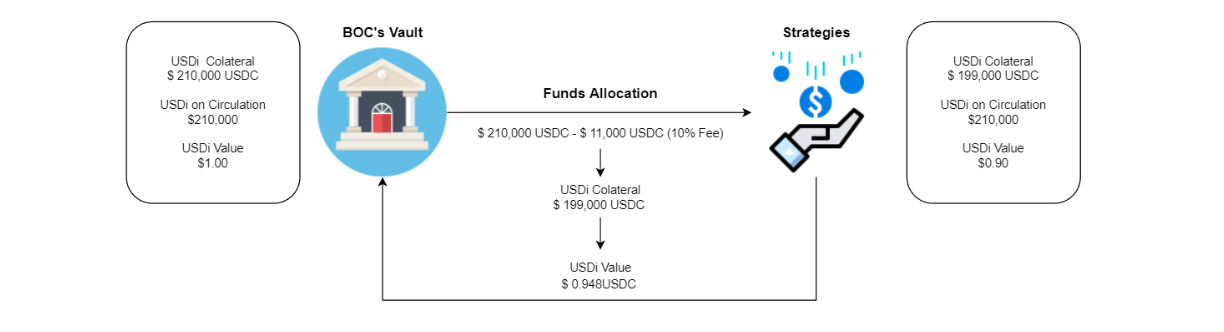
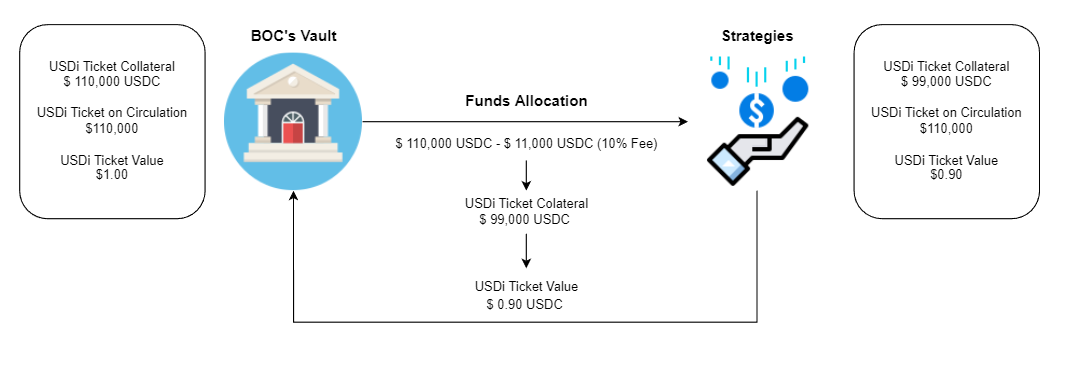
GitBook: [#27] No subject

diff --git a/README.md b/README.md
@@ -5,19 +5,19 @@ coverY: 0
 
 # Introduction to BOC
 
-## What is BOC
+## What is BoC
 
-BOC (Bank Of Chain) is a new and innovative platform in the decentralized finance ([DeFi](more/appendix.md#decentralized-finance-defi)) ecosystem. It helps ordinary users to obtain a near "risk-free" wealth management tool on the [blockchain](more/appendix.md#blockchain-network).
+BoC (Bank Of Chain) is a new and innovative platform in the decentralized finance ([DeFi](more/appendix.md#decentralized-finance-defi)) ecosystem. It helps ordinary users to obtain a near "risk-free" wealth management tool on the [blockchain](more/appendix.md#blockchain-network).
 
-The BOC platform connects carefully selected protocols within the crypto ecosystem, including [Automatic Market Makers (AMMs)](more/appendix.md#automated-market-maker-amm), [lending protocols](more/appendix.md#lending-protocol), [yield aggregators](more/appendix.md#yield-aggregators), among others. (see [Dashboard](https://dashboard.bankofchain.io/#/) for details).
+The BoC platform connects carefully selected protocols within the crypto ecosystem, including [Automatic Market Makers (AMMs)](more/appendix.md#automated-market-maker-amm), [lending protocols](more/appendix.md#lending-protocol), [yield aggregators](more/appendix.md#yield-aggregators), among others. (see [Dashboard](https://dashboard.bankofchain.io/#/) for details).
 
-By accessing high-quality [protocols](more/appendix.md#protocol) and smart [strategies](more/appendix.md#strategy), BOC provides a 4-5% more APY than other similar USD managed funds.
+By accessing high-quality [protocols](more/appendix.md#protocol) and smart [strategies](more/appendix.md#strategy), BoC provides a 4-5% more APY than other similar USD managed funds.
 
-This is the best way to start in the DeFi ecosystem for newcomers to the crypto industry. As a one-click protocol, BOC will bring a new revolution to the DeFi industry, attracting hundreds of millions of dollars of investment.
+This is the best way to start in the DeFi ecosystem for newcomers to the crypto industry. As a one-click protocol, BoC will bring a new revolution to the DeFi industry, attracting hundreds of millions of dollars of investment.
 
-## BOC Source of Yield
+## BoC Source of Yield
 
-BOC is a DeFi protocol that provides the best long-term near "risk-free" return. Depending on the strategy the sources of yield come from:
+BoC is a DeFi protocol that provides the best long-term near "risk-free" return. Depending on the strategy the sources of yield come from:
 
 * The transaction fee charged for providing market-making funds to decentralized exchanges [(DEX)](more/appendix.md#decentralized-exchanges-dexs).
 * The interest charged on funds borrowed for [over-collateralized loans](more/appendix.md#Over-collateralized-loans).
@@ -39,16 +39,16 @@ The existing DeFi protocols present the following problems:
 * Present a complex user interface and requires high-expertise in DeFi investments.
 * Requirement of multiple cryptocurrencies.
 
-## What makes BOC different?
+## What makes BoC different?
 
-BOC is the first Decentralized Bank (DeB), where you can deposit your crypto assets and automatically BOC´s smart contracts will perform decentralized investing by carefully running selected strategies on different high-quality DeFi protocols to create long-term stable income near "risk-free".
+BoC is the first Decentralized Bank (DeB), where you can deposit your crypto assets and automatically BoC´s smart contracts will perform decentralized investing by carefully running selected strategies on different high-quality DeFi protocols to create long-term stable income near "risk-free".
 
-The main characteristics that make BOC a unique product are:
+The main characteristics that make BoC a unique product are:
 
 **Bank-like Structure:**
 
 1. Bank-like user interface.
-   * Users can deposit and withdraw directly without considering the difficulties of implementing complex operations such as farming, exchange, and reallocation. BOC makes the best selection for them.
+   * Users can deposit and withdraw directly without considering the difficulties of implementing complex operations such as farming, exchange, and reallocation. BoC makes the best selection for them.
    * Historical and dynamic returns are intuitively visible.
 2. Bank-like service.
    * Wealth management tool on the blockchain.
@@ -90,12 +90,12 @@ The main characteristics that make BOC a unique product are:
 3. It performs FX interest swap, adjusting FX synthesis based on the exchange rate and yield.
 4. Parameters are automatically set for market-making and lending strategy.
 
-In summary, BOC Platform is the missing catalyst that will revolutionize the industry, generating a new route to interact with the DeFi Ecosystem, making it a safe path for newcomers. This will lead to new market growth compared to other similar products in the market:
+In summary, BoC Platform is the missing catalyst that will revolutionize the industry, generating a new route to interact with the DeFi Ecosystem, making it a safe path for newcomers. This will lead to new market growth compared to other similar products in the market:
 
-| Comparing Product                            | [BOC](https://bankofchain.io/)                                            | [Yearn](http://yearn.finance/)                                                                                                                        | [OUSD](https://www.ousd.com/)                                                                 | [Aladdin DAO](https://aladdin.club/)                                                                                                               | [Enzyme](https://enzyme.finance/)                                                                                                                          | [Farming](https://harvest.finance/)                                                                                                | [Beefy](https://beefy.finance/)                                                                                                                                                                              | [Alpha](https://alphafinance.io/)                                                                                                                    | [Yield app](https://www.yield.app/)                                                 |
+| Comparing Product                            | [BoC](https://bankofchain.io/)                                            | [Yearn](http://yearn.finance/)                                                                                                                        | [OUSD](https://www.ousd.com/)                                                                 | [Aladdin DAO](https://aladdin.club/)                                                                                                               | [Enzyme](https://enzyme.finance/)                                                                                                                          | [Farming](https://harvest.finance/)                                                                                                | [Beefy](https://beefy.finance/)                                                                                                                                                                              | [Alpha](https://alphafinance.io/)                                                                                                                    | [Yield app](https://www.yield.app/)                                                 |
 | -------------------------------------------- | ------------------------------------------------------------------------- | ----------------------------------------------------------------------------------------------------------------------------------------------------- | --------------------------------------------------------------------------------------------- | -------------------------------------------------------------------------------------------------------------------------------------------------- | ---------------------------------------------------------------------------------------------------------------------------------------------------------- | ---------------------------------------------------------------------------------------------------------------------------------- | ------------------------------------------------------------------------------------------------------------------------------------------------------------------------------------------------------------ | ---------------------------------------------------------------------------------------------------------------------------------------------------- | ----------------------------------------------------------------------------------- |
 | Type                                         | DeFi Bank                                                                 | Yield Aggregator                                                                                                                                      | Stablecoin                                                                                    | Yield Aggregator                                                                                                                                   | On-chain asset management                                                                                                                                  | Yield Aggregator                                                                                                                   | Yield Aggregator                                                                                                                                                                                             | Yield Aggregator                                                                                                                                     | DeFi Bank                                                                           |
-| Details                                      | BOC is a DeFi protocol that provides the best long-term risk-free return. | Yearn Finance is a suite of products in Decentralized Finance (DeFi) that provides yield generation, lending aggregation, and more on the blockchain. | Origin Dollar (OUSD) is a new stablecoin that was initially launched on the Ethereum network. | AladdinDAO is a decentralized network to shift crypto investments from venture capitalists to wisdom of crowds through collective value discovery. | Fast & cost-effective way to build, scale and monetize investment strategies.Fast & cost-effective way to build, scale and monetize investment strategies. | Harvest Finance is a yield farming protocol that allows users to put their assets to work in high-producing farming opportunities. | Beefy Finance is a Decentralized, Multi-Chain Yield Optimizer that allows its users to earn compound interest on their crypto holdings. Beefy earns you the highest APYs with safety and efficiency in mind. | Alpha Finance Lab is an ecosystem of cross-chain DeFi products that focuses on capturing unaddressed demands in an innovative and user-friendly way. | Your Digital Wealth Partner Discover the easiest way to earn on your digital assets |
+| Details                                      | BoC is a DeFi protocol that provides the best long-term risk-free return. | Yearn Finance is a suite of products in Decentralized Finance (DeFi) that provides yield generation, lending aggregation, and more on the blockchain. | Origin Dollar (OUSD) is a new stablecoin that was initially launched on the Ethereum network. | AladdinDAO is a decentralized network to shift crypto investments from venture capitalists to wisdom of crowds through collective value discovery. | Fast & cost-effective way to build, scale and monetize investment strategies.Fast & cost-effective way to build, scale and monetize investment strategies. | Harvest Finance is a yield farming protocol that allows users to put their assets to work in high-producing farming opportunities. | Beefy Finance is a Decentralized, Multi-Chain Yield Optimizer that allows its users to earn compound interest on their crypto holdings. Beefy earns you the highest APYs with safety and efficiency in mind. | Alpha Finance Lab is an ecosystem of cross-chain DeFi products that focuses on capturing unaddressed demands in an innovative and user-friendly way. | Your Digital Wealth Partner Discover the easiest way to earn on your digital assets |
 | Supported Chain                              | <p>ETH<br>BNB Chain<br>Polygon</p>                                        | <p>ETH<br>Fantom</p>                                                                                                                                  | ETH                                                                                           | ETH                                                                                                                                                | ETH                                                                                                                                                        | <p>ETH<br>BNB Chain<br>Polygon</p>                                                                                                 | <p>BNB Chain<br>Polygon<br>Arbitrum<br>Fantom<br>Avalanche<br>Harmony</p>                                                                                                                                    | <p>ETH<br>BNB Chain<br>Avalanche</p>                                                                                                                 | <p>ETH<br>V2 BNB Chain</p>                                                          |
 | <p>Locked Asset（USD）<br>2022/3/8</p>         | 31k                                                                       | 3.05B                                                                                                                                                 | 155.82m                                                                                       | 2.78m                                                                                                                                              | 167.98m                                                                                                                                                    | 222.25m                                                                                                                            | 921.5m                                                                                                                                                                                                       | 827.8m                                                                                                                                               | 512.71m                                                                             |
 | Official Token                               | n/a                                                                       | YFI                                                                                                                                                   | OGN                                                                                           | ALD                                                                                                                                                | MLN                                                                                                                                                        | FARM                                                                                                                               | BIFI                                                                                                                                                                                                         | ALPHA                                                                                                                                                | YLD                                                                                 |

diff --git a/protocol-mechanisms/protocol-algorithm-design/protocol-algorithm-design.md b/protocol-mechanisms/protocol-algorithm-design/protocol-algorithm-design.md
@@ -13,21 +13,23 @@ To simplify the situation for easier understanding:
 
 We have James, he is holding at the moment  `T=0` $ 100,000 USDi being USDi a fully pegged to USD (1 USDi = 1 USD), so his total assets on USD is $100,00 USD.
 
-<figure><img src="../../.gitbook/assets/image (10).png" alt=""><figcaption><p>Starting point T=0 (Alpha version).</p></figcaption></figure>
+<figure><img src="../../.gitbook/assets/image (4).png" alt=""><figcaption><p>Table 1: T=0 (Alpha version)</p></figcaption></figure>
+
+<figure><img src="../../.gitbook/assets/image (8).png" alt=""><figcaption><p>Diagram 1: Starting point T=0 (Alpha version).</p></figcaption></figure>
 
 Yesterday, Alice deposited 100,000 USDC as well, while Bob deposited 10,000 USDC. So, the vault will mint 110,000 USDi and they will be receiving 100,000 USDi and 10,000 USDi respectively.&#x20;
 
-<figure><img src="../../.gitbook/assets/image (7).png" alt=""><figcaption><p>Alice and Bob deposit new funds on BoC protocol (Alpha version).</p></figcaption></figure>
+<figure><img src="../../.gitbook/assets/image (19).png" alt=""><figcaption><p>Table 2: T=1 (Alpha version)</p></figcaption></figure>
+
+Alice and Bob deposit new funds on BoC protocol (Alpha version).
 
 The keeper will call the funds allocation when the [conditions](protocol-algorithm-design.md#allocation) are met and the vault will allocate the fund on the strategies selected by the keeper. For this feed will be needed to pay on the 3rt party protocols to complete the allocation, this fee will be taken from the USDi collateral, causing a de-pegging.
 
-<figure><img src="../../.gitbook/assets/image (15).png" alt=""><figcaption><p>Allocation of the funds T=1 (Alpha version). </p></figcaption></figure>
-
-<figure><img src="../../.gitbook/assets/image (12).png" alt=""><figcaption></figcaption></figure>
+<figure><img src="../../.gitbook/assets/image (18).png" alt=""><figcaption><p>Diagram 2: Allocation of the funds T=1 (Alpha version).<br></p></figcaption></figure>
 
 As we can see in the table, the fund allocation decreases the USDi collateral causing a de-pegging of it vs USD where James' assets have been affected by Alices' and Bob's deposit.
 
-<figure><img src="../../.gitbook/assets/image (14).png" alt=""><figcaption><p>User's assets after allocation (Alpha version). </p></figcaption></figure>
+<figure><img src="../../.gitbook/assets/image (6).png" alt=""><figcaption><p>Diagram 3: User's assets after allocation (Alpha version).</p></figcaption></figure>
 
 ### Beta version logic (with USDi ticket).
 
@@ -42,23 +44,25 @@ We simplify again the situation for easier understanding:
 
 Again, we have James, he is holding at the moment  `T=0` $ 100,000 USDi being USDi a fully pegged to USD (1 USDi = 1 USD), so his total assets on USD is $100,00 USD.
 
-<figure><img src="../../.gitbook/assets/image (11).png" alt=""><figcaption><p>Starting point T=0 (Beta version).</p></figcaption></figure>
+<figure><img src="../../.gitbook/assets/image (7).png" alt=""><figcaption><p>Table 3: T=0 (Beta Version)</p></figcaption></figure>
+
+<figure><img src="../../.gitbook/assets/image.png" alt=""><figcaption><p>Diagram 4: Starting point T=0 (Beta version).</p></figcaption></figure>
 
 In this situation, Alice deposited 100,000 USDC as well, while Bob deposited 10,000 USDC. So, on the Beta version, the vault will mint 110,000 **USDi Tickets** and they will be receiving 100,000 USDi and 10,000 USDi respectively.&#x20;
 
-<figure><img src="../../.gitbook/assets/image (1).png" alt=""><figcaption><p>Alice and Bob deposit new funds on BoC protocol (Beta version).</p></figcaption></figure>
+<figure><img src="../../.gitbook/assets/image (13).png" alt=""><figcaption><p>Table 4: T=1 (Beta Version)</p></figcaption></figure>
+
+<figure><img src="../../.gitbook/assets/image (5).png" alt=""><figcaption><p>Diagram 5: Alice and Bob deposit new funds on BoC protocol (Beta version).</p></figcaption></figure>
 
 The keeper will call the funds allocation when the [conditions](protocol-algorithm-design.md#allocation) are met and the vault will allocate the fund on the strategies selected by the keeper. For this feed will be needed to pay on the 3rt party protocols to complete the allocation, this fee will be taken from the USDi collateral, causing a de-pegging.
 
-<figure><img src="../../.gitbook/assets/t12.JPG" alt=""><figcaption><p>Allocation of the funds T=1 (Beta version). </p></figcaption></figure>
+<figure><img src="../../.gitbook/assets/image (15).png" alt=""><figcaption><p>Diagram 6: Allocation of the funds T=1 (Beta version). </p></figcaption></figure>
 
 After the fund's allocation, the vault will exchange the USDi Tickets (burn) for USDi (mint).
 
-<figure><img src="../../.gitbook/assets/t122.JPG" alt=""><figcaption><p>USDi ticket exchange (Beta Version).</p></figcaption></figure>
-
-<figure><img src="../../.gitbook/assets/image (3).png" alt=""><figcaption></figcaption></figure>
+<figure><img src="../../.gitbook/assets/image (12).png" alt=""><figcaption><p>Diagram 7: USDi ticket exchange (Beta Version).</p></figcaption></figure>
 
 As we can see in the table, the fund allocation decreases the USDi Ticket collateral causing a de-pegging of it vs USD but USDi collateral remains untouched and fully pegged to USD, so, James' assets have not been affected by Alices' and Bob's deposit.
 
-<figure><img src="../../.gitbook/assets/image (6).png" alt=""><figcaption><p>User's assets after allocation (Beta version). </p></figcaption></figure>
+<figure><img src="../../.gitbook/assets/image (17).png" alt=""><figcaption><p>Diagram 8: User's assets after allocation (Beta version). </p></figcaption></figure>
 

diff --git a/boc/user-handbook.md b/boc/user-handbook.md
@@ -166,14 +166,14 @@ The data presented are described as follows:
 2. Strategy historical return APY performance:
    * Historical official weekly APY(purple line).
    * Historical weekly APY(green line).
-3. Value locked by the strategy (daily/weekly)
+3. Value locked by the strategy (daily/weekly).
 4. Profits generated by the strategy.
 5. Official APY of the strategy.
-6. APY measured by BoC
+6. APY measured by BoC.
 7. Total strategy assets (currency standard).
 8. Strategy operation asset changes (currency standard).
 9. Strategy operation date.
-10. Position details
+10. Position details.
 
 ### Personal Investment Analysis
 
@@ -193,7 +193,7 @@ The data presented are described as follows:
 
 ## Withdrawal of funds from BoC Alpha version UI.
 
-On September 2022 BoC Beta version will be deployed. This mean that USDi holders will need to withdraw all their funds from BoC Alpha version and redeposit on BoC beta version. Here is a tutorial on how to withdraw all your funds from BoC Alpha version.
+In September 2022, the BoC Beta version will be deployed, indicating that USDi holders will be required to withdraw all of their funds from the BoC Alpha version and redeposit into the BoC Beta version. Here is the tutorial on how to withdraw your funds from the BoC Alpha version.
 
 {% embed url="https://www.youtube.com/watch?feature=youtu.be&v=QSfJgT8k6u0" %}
 

diff --git a/more/branding-assets.md b/more/branding-assets.md
@@ -135,11 +135,11 @@ Download full brand pack
 
 #### 05. Outlined round gradient icon
 
-<figure><img src="../.gitbook/assets/05 outlined round icon . gradient small (1).png" alt=""><figcaption></figcaption></figure>
+<figure><img src="../.gitbook/assets/05 outlined round icon . gradient small (1) (1).png" alt=""><figcaption></figcaption></figure>
 
 {% file src="../.gitbook/assets/05 outlined round icon . gradient large (1).png" %}
 
-{% file src="../.gitbook/assets/05 outlined round icon . gradient small (1) (1).png" %}
+{% file src="../.gitbook/assets/05 outlined round icon . gradient small (1) (1) (2).png" %}
 
 {% file src="../.gitbook/assets/05 outlined round icon . gradient (1).svg" %}
 
